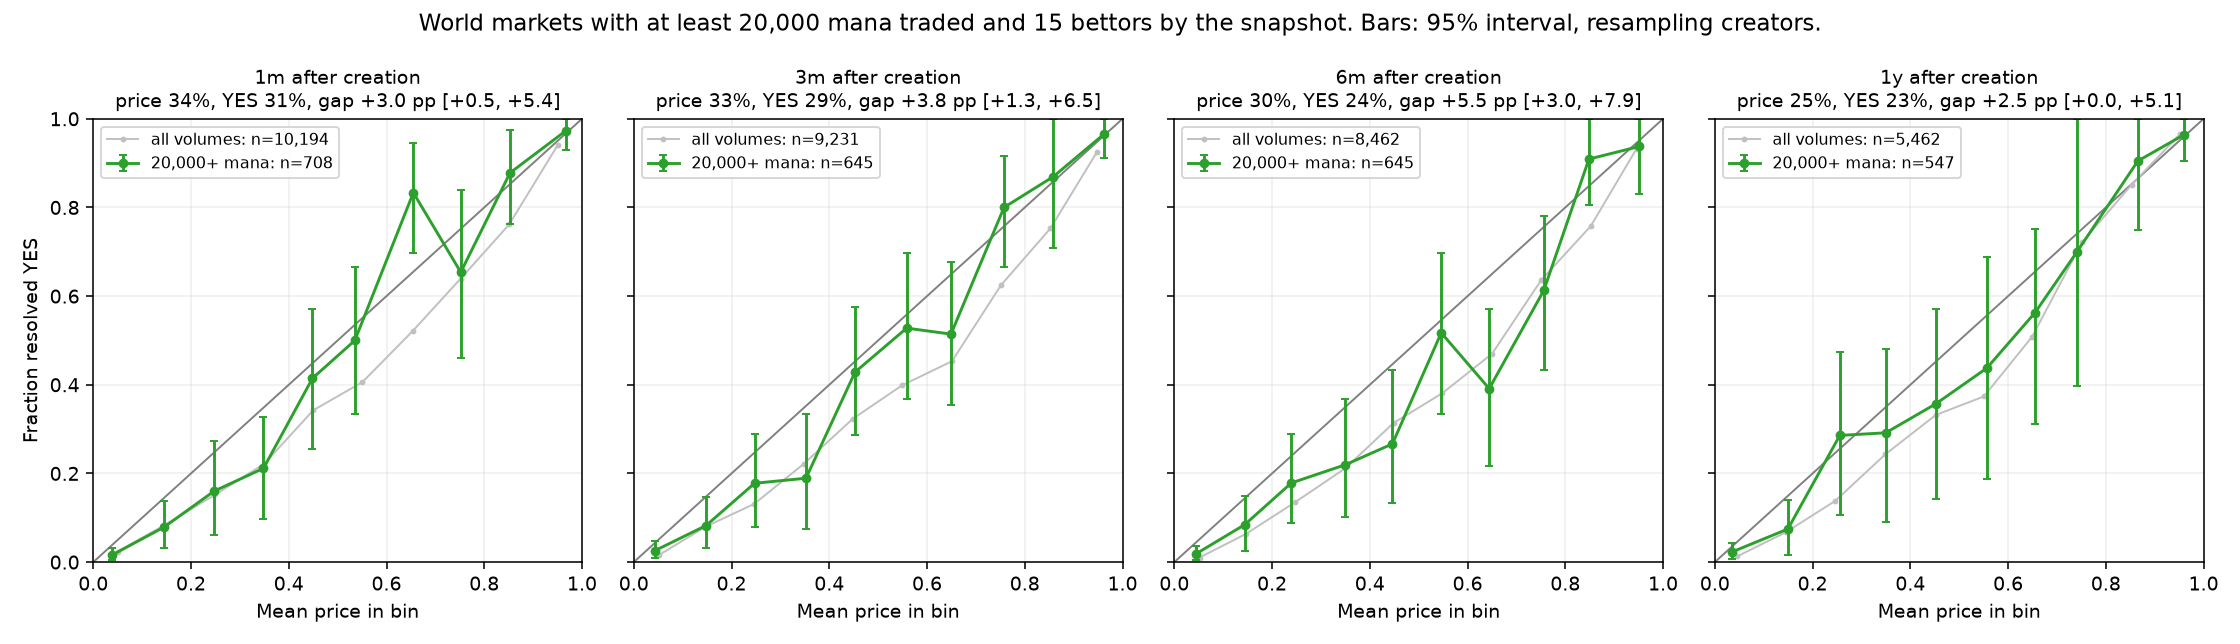
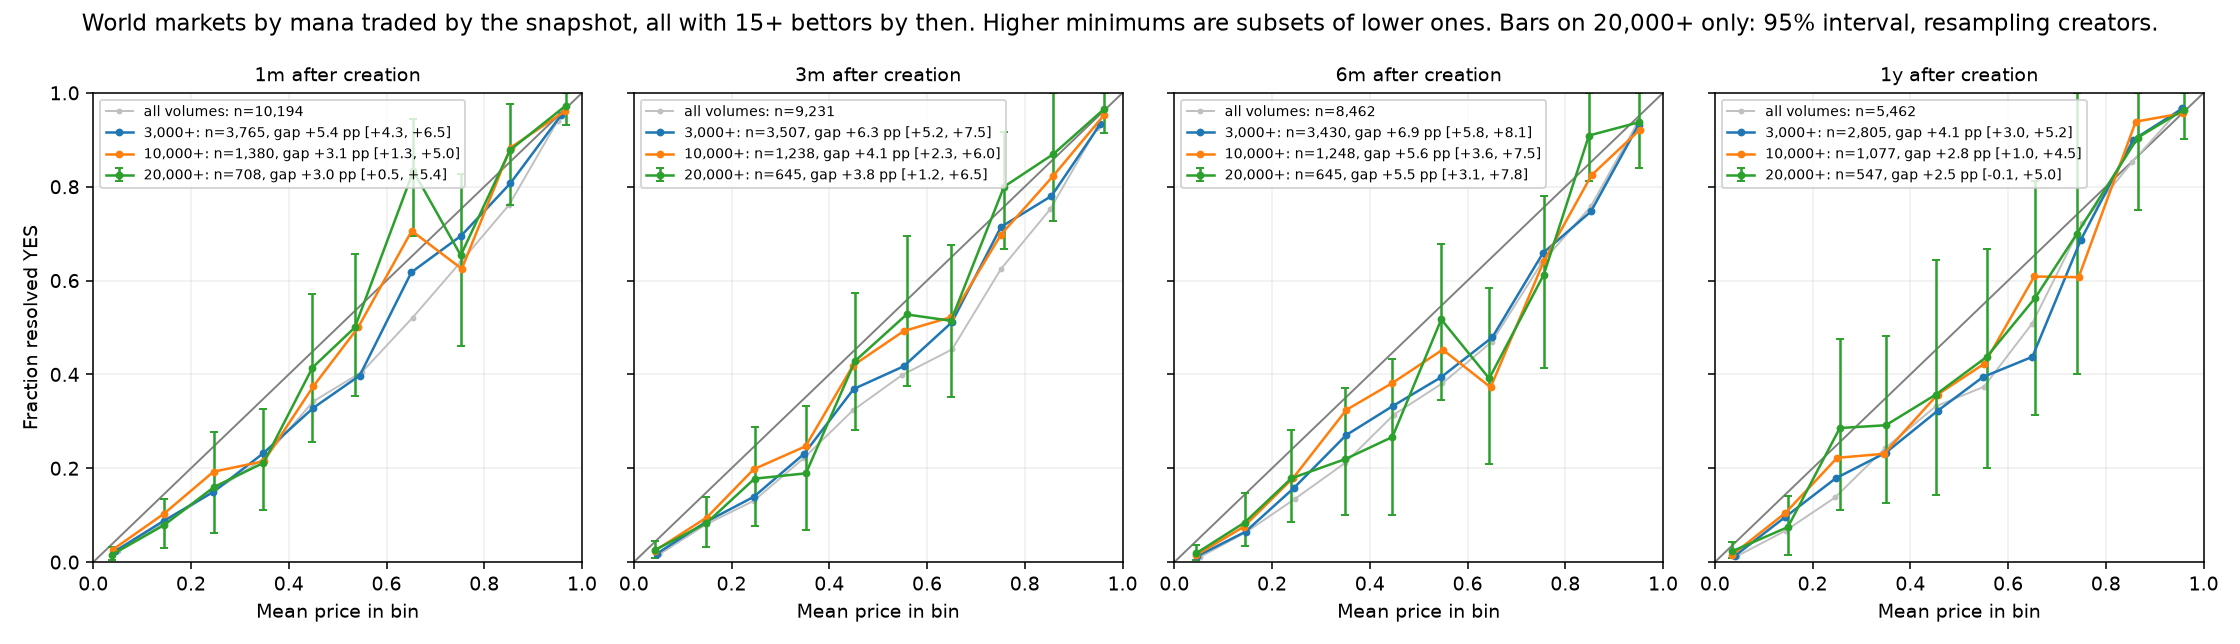
Add 3k and 10k mana minimums to the heavily traded calibration plot

diff --git a/src/high_volume_after_creation.py b/src/high_volume_after_creation.py
@@ -1,4 +1,4 @@
-"""Calibration of world markets with at least 20,000 mana traded by 1, 3, 6 and 12 months after creation.
+"""Calibration of world markets with at least 3,000, 10,000 or 20,000 mana traded by 1, 3, 6 and 12 months after creation.
 
 python src/high_volume_after_creation.py -> plots/high_volume_after_creation/calibration.png, bins.csv, summary.csv
 Needs data/manifold/api and labeling/results/full/manifold_final.jsonl. Snapshots are cached in data/manifold/snapshots_long_horizons.parquet.
@@ -18,7 +18,8 @@ ROOT = Path(__file__).resolve().parents[1]
 OUT = ROOT / "plots/high_volume_after_creation"
 CACHE = ROOT / "data/manifold/snapshots_long_horizons.parquet"
 EDGES = np.linspace(0, 1, 11)
-MIN_VOLUME = 20000
+MIN_VOLUMES = [3000, 10000, 20000]
+MIN_VOLUME = MIN_VOLUMES[-1]
 s.HOURS = {"1m": 24 * 30, "3m": 24 * 90, "6m": 24 * 180, "1y": 24 * 365}
 
 
@@ -51,20 +52,22 @@ if __name__ == "__main__":
     bins, summary = [], []
     for ax, h in zip(axes, s.HOURS):
         everything = d[d.horizon == h]
-        g = everything[everything.volume >= MIN_VOLUME]
         ax.plot([0, 1], [0, 1], color="gray", lw=1)
         b = curve(everything)
         ax.plot(b.p, b.y, "o-", ms=2, lw=1, color="silver", label=f"all volumes: n={len(everything):,}")
-        b = curve(g)
-        low, high = np.array([resampled_ratio(g[g.bin == i], "y", "one") for i in b.index]).T
-        ax.errorbar(b.p, b.y, yerr=[(b.y - low).clip(lower=0), (high - b.y).clip(lower=0)], fmt="o-", ms=4, capsize=2, color="C2", label=f"{MIN_VOLUME:,}+ mana: n={len(g):,}")
-        gap = resampled_ratio(g, "gap", "one")
-        summary.append(dict(horizon=h, markets=len(g), creators=g.creator.nunique(), mean_price=g.prob.mean(), yes_share=g.y.mean(), gap=g.gap.mean(), gap_low=gap[0], gap_high=gap[1]))
-        bins += [dict(horizon=h, low=EDGES[i], high=EDGES[i + 1], markets=int(v.n), mean_price=v.p, yes_share=v.y, yes_low=l, yes_high=u) for (i, v), l, u in zip(b.iterrows(), low, high)]
-        ax.set_title(f"{h} after creation\nprice {g.prob.mean():.0%}, YES {g.y.mean():.0%}, gap {g.gap.mean() * 100:+.1f} pp [{gap[0] * 100:+.1f}, {gap[1] * 100:+.1f}]", fontsize=10)
-        ax.set_xlim(0, 1); ax.set_ylim(0, 1); ax.grid(alpha=.2); ax.legend(fontsize=8, loc="upper left"); ax.set_xlabel("Mean price in bin")
+        for volume, color in zip(MIN_VOLUMES, ["C0", "C1", "C2"]):
+            g = everything[everything.volume >= volume]
+            b = curve(g)
+            low, high = np.array([resampled_ratio(g[g.bin == i], "y", "one") for i in b.index]).T
+            gap = resampled_ratio(g, "gap", "one")
+            yerr = [(b.y - low).clip(lower=0), (high - b.y).clip(lower=0)] if volume == MIN_VOLUME else None
+            ax.errorbar(b.p, b.y, yerr=yerr, fmt="o-", ms=3, lw=1.3, capsize=2, color=color, label=f"{volume:,}+: n={len(g):,}, gap {g.gap.mean() * 100:+.1f} pp [{gap[0] * 100:+.1f}, {gap[1] * 100:+.1f}]")
+            summary.append(dict(min_volume=volume, horizon=h, markets=len(g), creators=g.creator.nunique(), mean_price=g.prob.mean(), yes_share=g.y.mean(), gap=g.gap.mean(), gap_low=gap[0], gap_high=gap[1]))
+            bins += [dict(min_volume=volume, horizon=h, low=EDGES[i], high=EDGES[i + 1], markets=int(v.n), mean_price=v.p, yes_share=v.y, yes_low=l, yes_high=u) for (i, v), l, u in zip(b.iterrows(), low, high)]
+        ax.set_title(f"{h} after creation", fontsize=10)
+        ax.set_xlim(0, 1); ax.set_ylim(0, 1); ax.grid(alpha=.2); ax.legend(fontsize=7, loc="upper left"); ax.set_xlabel("Mean price in bin")
     axes[0].set_ylabel("Fraction resolved YES")
-    fig.suptitle(f"World markets with at least {MIN_VOLUME:,} mana traded and {MIN_BETTORS} bettors by the snapshot. Bars: 95% interval, resampling creators.")
+    fig.suptitle(f"World markets by mana traded by the snapshot, all with {MIN_BETTORS}+ bettors by then. Higher minimums are subsets of lower ones. Bars on {MIN_VOLUME:,}+ only: 95% interval, resampling creators.")
     fig.tight_layout(); fig.savefig(OUT / "calibration.png", dpi=140)
     pd.DataFrame(bins).to_csv(OUT / "bins.csv", index=False)
     pd.DataFrame(summary).to_csv(OUT / "summary.csv", index=False)

diff --git a/plots/high_volume_after_creation/README.md b/plots/high_volume_after_creation/README.md
@@ -1,10 +1,17 @@
 # Heavily traded world markets, 1 month to 1 year after creation
 
-**Heavily traded world markets still lean below the diagonal, by about 2.5 to 5.5 percentage points.** Prices average higher than the YES rate at every horizon: 34% vs 31% at 1 month, 33% vs 29% at 3 months, 30% vs 24% at 6 months, 25% vs 23% at 1 year. The 95% intervals on these gaps only just exclude zero at 1 and 3 months, and touch zero at 1 year. The change between horizons is within noise.
+**More trading shrinks the downward lean but doesn't remove it, and the shrinking stops at 10,000 mana.** Average price minus YES rate, in percentage points:
 
-[calibration.png](calibration.png): green is world markets with at least 20,000 mana traded by the snapshot. Grey is all world markets at the same horizon, with no volume minimum.
+| After creation | 3,000+ | 10,000+ | 20,000+ |
+|---|---|---|---|
+| 1 month | +5.4 | +3.1 | +3.0 |
+| 6 months | +6.9 | +5.6 | +5.5 |
 
-**This does not show that trading causes the smaller gap.** The heavily traded markets are a different, smaller set of questions.
+3 months and 1 year follow the same order (`summary.csv`). The intervals are mostly clear of zero; the exception is 20,000+ at 1 year, which touches it. Higher minimums are subsets of lower ones, so the three columns are not independent. The change across horizons is within noise at 10,000+ and 20,000+.
+
+[calibration.png](calibration.png): blue, orange and green are world markets with at least 3,000, 10,000 and 20,000 mana traded by the snapshot. Grey is all world markets at the same horizon, with no volume minimum. Error bars are drawn on 20,000+ only, to keep the plot readable.
+
+**This does not show that trading causes the smaller gap.** Heavily traded markets are a different, smaller set of questions.
 
 ## Same markets over time
 
@@ -14,7 +21,7 @@ Only 83 markets reach 20,000 mana within 1 month and are still open at 1 year. T
 
 - **Markets:** resolved YES/NO Manifold markets labeled `world`, both status-quo and other, with at least 15 lifetime bettors and 1,000 lifetime volume.
 - **Snapshot:** the price after the last bet that moved it, at or before creation plus 30, 90, 180 or 365 days. The market must still be unresolved at that moment.
-- **Filters:** at least 20,000 mana and 15 bettors by that same moment, so the filter does not use the future.
+- **Filters:** at least 3,000, 10,000 or 20,000 mana and 15 bettors by that same moment, so the filter does not use the future.
 - **Points:** markets grouped into 10-point-wide price bins. Each dot is the mean price and YES share of its bin. Bins with fewer than 10 markets are dropped.
 - **Intervals:** 95%, from resampling creators 2,000 times.
 
